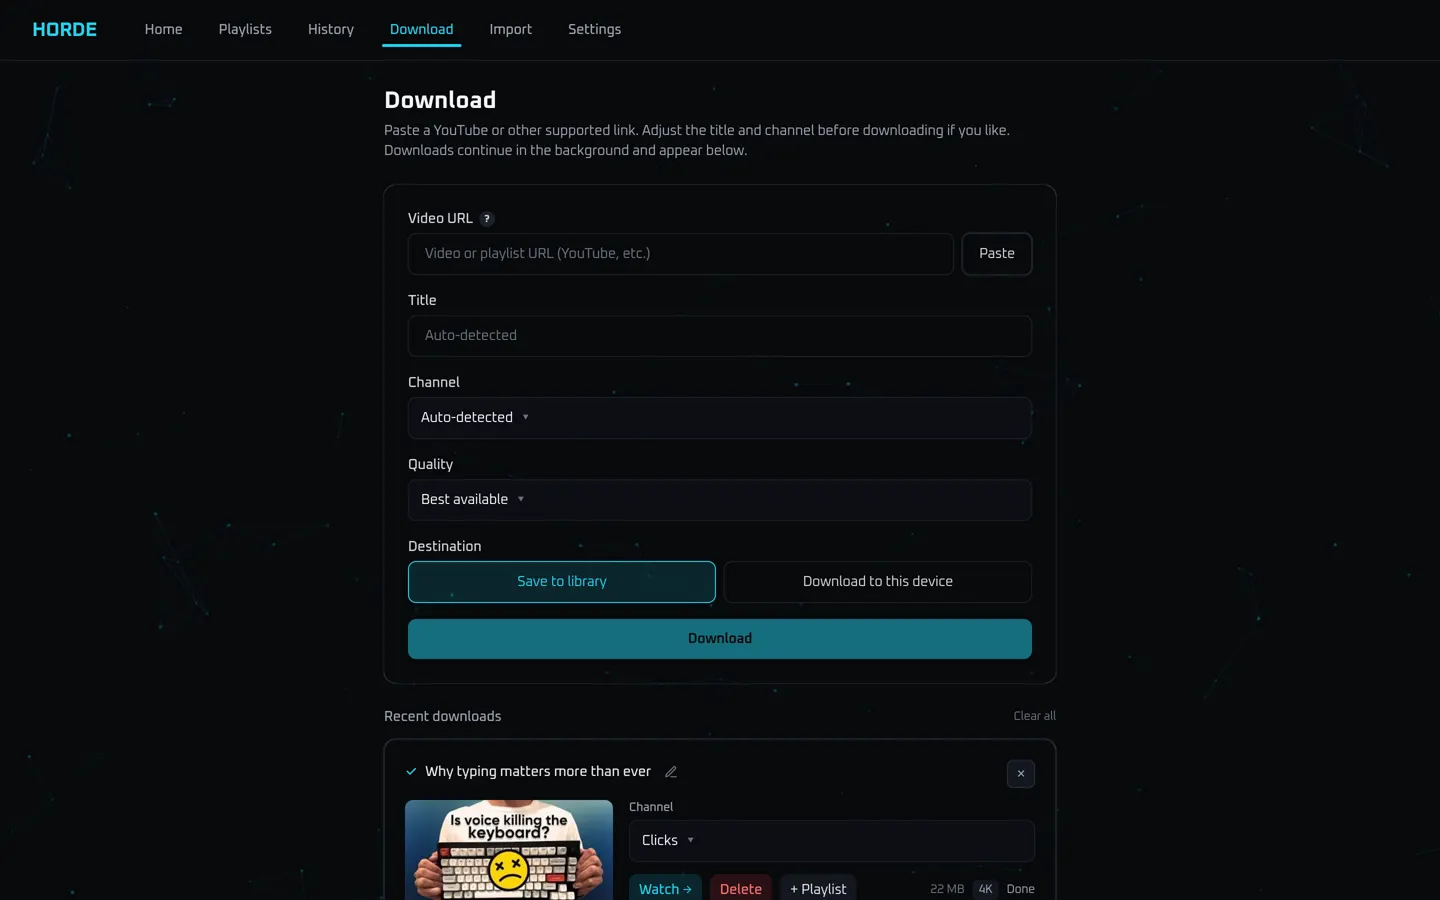
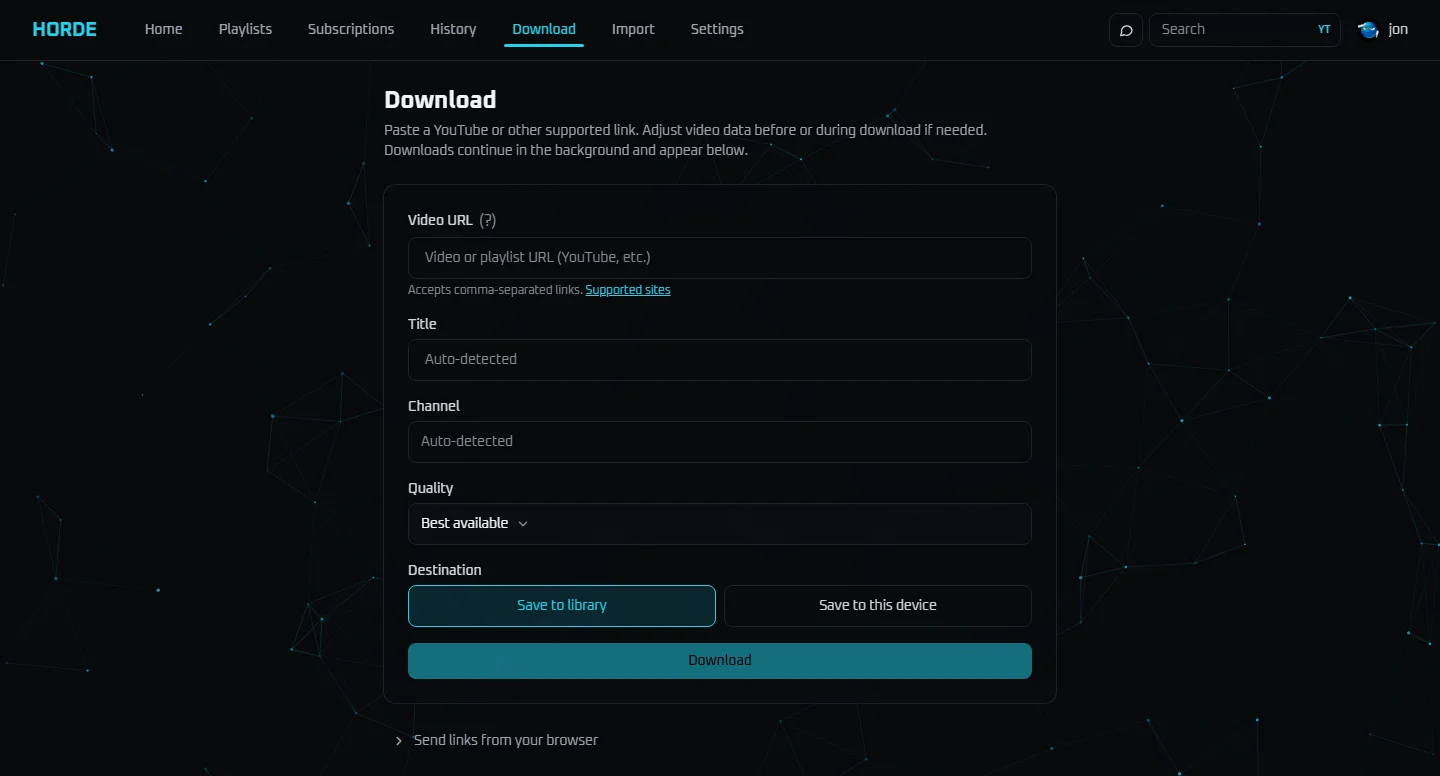
Refresh README and docs screenshots
The shots dated from September and no longer matched the UI: the nav
gained Subscriptions, the player shows the AI summary panel and chapter
markers, and the Download form changed. Retake library, player,
downloads, import and settings-ai from a real library, and add
recommended and subscriptions, which the README now shows too.

The settings-ai shot moves to the Features tab so no key suffix is shown.
The capture script lists the new subscriptions shot.

diff --git a/docs/features.md b/docs/features.md
@@ -21,7 +21,7 @@ The top bar has **Home** (the library), **Playlists**, **History**, **Download**
 
 Paste a [yt-dlp](https://github.com/yt-dlp/yt-dlp)-supported URL (YouTube is the well-tested path), pick a quality preset, and watch a FIFO queue with live progress. Pause and resume the queue. YouTube playlists can be imported as individual videos or turned into a Horde playlist.
 
-![Download page with URL field, quality presets, and queue](assets/screenshots/downloads.webp)
+![Download page with URL field, quality, and destination](assets/screenshots/downloads.webp)
 
 Presets range from **best** (highest AV1 when YouTube offers it) through height caps (2160p down to 480p) and audio-only. After metadata loads, the UI can hide formats the source does not actually have. Horde does **not** download YouTube Shorts.
 
@@ -43,7 +43,9 @@ Why this layout: [Channel/year layout](design/channel-year-layout.md). Storage m
 
 The home screen is a video grid (or channel feed), a channel sidebar, search, tags, sorting, and bulk actions.
 
-![Library grid with channel sidebar, tags, and continue watching](assets/screenshots/library.webp)
+![Library grid with continue watching](assets/screenshots/library.webp)
+
+![Recommended feed with category shelves and channels you might like](assets/screenshots/recommended.webp)
 
 - **Channel sidebar** — filter by creator; search local channels and discover remote YouTube channels
 - **Sort** — recently added, publish date, title, duration, size, views, or random (session override lasts 3 hours)
@@ -58,6 +60,8 @@ Full guide: [Library](guides/library.md). Search behavior: [Search](guides/searc
 Open a channel from the sidebar to see its **feed**: videos already in your library, plus optional **undownloaded** catalog entries from YouTube.
 
 ![Channel feed with downloaded videos and undownloaded catalog rows](assets/screenshots/channel-feed.webp)
+
+![Subscriptions page listing followed channels](assets/screenshots/subscriptions.webp)
 
 Catalogs are **YouTube-only**. You can browse, stream-preview, and queue downloads without leaving the feed. Sidebar search (≥ 2 characters) can also find remote channels you do not have yet. Non-YouTube yt-dlp URLs still download; they just do not get a remote catalog.
 
@@ -77,7 +81,7 @@ Full guide: [Import & review](guides/import-review.md).
 
 Library watch and stream preview share the same player.
 
-![Watch page with the Horde player, chapters, and related chrome](assets/screenshots/player.webp)
+![Watch page with the Horde player, chapter markers, AI summary, and related videos](assets/screenshots/player.webp)
 
 | Mode | Behavior |
 |------|----------|
@@ -113,7 +117,7 @@ Full guide: [YouTube history](guides/youtube-history.md).
 
 Turn the archive into something you can actually ask questions of. Use any OpenAI-compatible provider: a cloud one such as **OpenRouter** (often cheaper and lower maintenance for this app), a server you run such as **Ollama** or LM Studio, or a cloud model for chat with local embeddings.
 
-![Settings → AI provider settings](assets/screenshots/settings-ai.webp)
+![Settings → AI → Features toggles](assets/screenshots/settings-ai.webp)
 
 | Feature | Needs |
 |---------|--------|

diff --git a/README.md b/README.md
@@ -14,7 +14,7 @@ Horde started as an archive, and now also supports streaming from YouTube
 without downloading, live streams included. Nearly everything is adjustable in
 Settings.
 
-![Library home with constellation background, channel sidebar, and video grid](docs/assets/screenshots/library.webp)
+![Library home with Continue watching and the video grid](docs/assets/screenshots/library.webp)
 
 It's built for a household, not just one person: one administrator plus member
 accounts, each with their own watch history, recommendations, AI chats and
@@ -116,9 +116,13 @@ including how to reset a lost admin password.
 
 ## Screenshots
 
-![Download page with URL field, quality presets, and queue](docs/assets/screenshots/downloads.webp)
+![Watch page with the Horde player, AI summary, and related videos](docs/assets/screenshots/player.webp)
 
-![Watch page with the Horde player](docs/assets/screenshots/player.webp)
+![Recommended feed with category shelves and live and new-to-you videos](docs/assets/screenshots/recommended.webp)
+
+![Subscriptions page listing followed channels](docs/assets/screenshots/subscriptions.webp)
+
+![Download page with URL field, quality, and destination](docs/assets/screenshots/downloads.webp)
 
 ## Quick start
 
